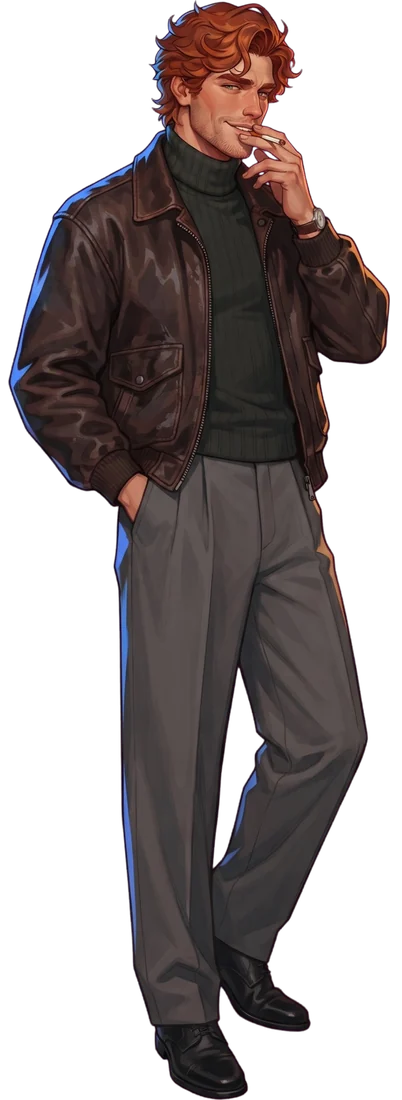
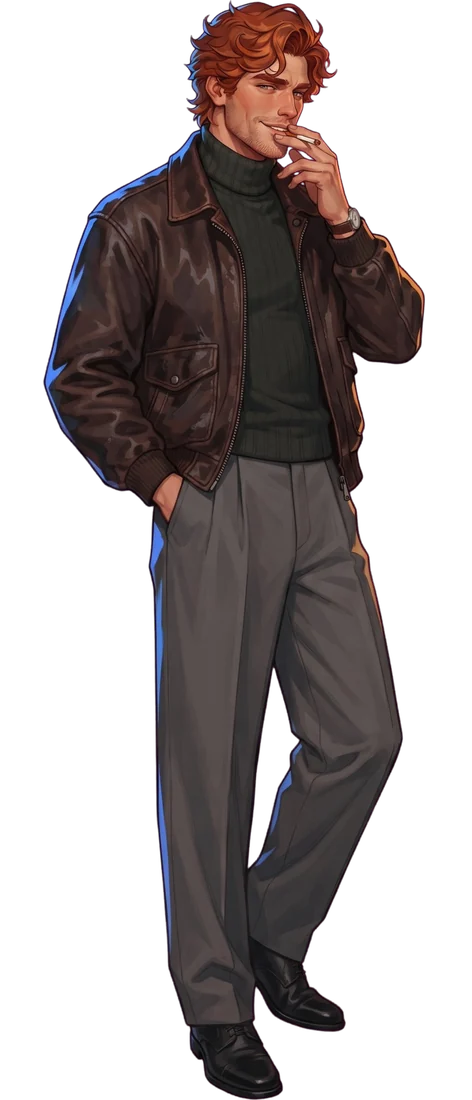
Главная: вторые позы Вити и Лёши

diff --git a/en.html b/en.html
@@ -431,8 +431,8 @@ const CONFIG = {
   },
   lamps:[{x:510, y:168, s:260, cls:'flicker'}, {x:975, y:238, s:300, cls:'soft'}, {x:1012, y:420, s:150, cls:'soft'}, {x:1288, y:420, s:150, cls:'soft'}],
   people:[
-    {id:'lesha', side:'L', x:268, g:832, h:612, idle:'assets/main/lesha.webp', hover:null, d:'4.9s', sd:'12s', dl:'-1.3s', lean:'.9deg', bxu:-.02, bo:'56%'},
-    {id:'vitya', side:'L', x:738, g:836, h:626, idle:'assets/main/vitya.webp', hover:null, flip:true, d:'5.4s', sd:'14s', dl:'-3s', lean:'-1.2deg', bxu:.02, bo:'42%'},
+    {id:'lesha', side:'L', x:268, g:832, h:612, idle:'assets/main/lesha.webp', hover:'assets/main/lesha-hover.webp', d:'4.9s', sd:'12s', dl:'-1.3s', lean:'.9deg', bxu:-.02, bo:'56%'},
+    {id:'vitya', side:'L', x:738, g:836, h:626, idle:'assets/main/vitya.webp', hover:'assets/main/vitya-hover.webp', flip:true, d:'5.4s', sd:'14s', dl:'-3s', lean:'-1.2deg', bxu:.02, bo:'42%'},
     {id:'oleg', side:'R', x:1408, g:836, h:668, idle:'assets/main/oleg.webp', hover:'assets/main/oleg-hover.webp', d:'5.1s', sd:'13s', dl:'-2.2s', lean:'-1deg', bxu:-.03, bo:'58%'}
   ],
   snaps:{L:505, R:1240}

diff --git a/index.html b/index.html
@@ -431,8 +431,8 @@ const CONFIG = {
   },
   lamps:[{x:510, y:168, s:260, cls:'flicker'}, {x:975, y:238, s:300, cls:'soft'}, {x:1012, y:420, s:150, cls:'soft'}, {x:1288, y:420, s:150, cls:'soft'}],
   people:[
-    {id:'lesha', side:'L', x:268, g:832, h:612, idle:'assets/main/lesha.webp', hover:null, d:'4.9s', sd:'12s', dl:'-1.3s', lean:'.9deg', bxu:-.02, bo:'56%'},
-    {id:'vitya', side:'L', x:738, g:836, h:626, idle:'assets/main/vitya.webp', hover:null, flip:true, d:'5.4s', sd:'14s', dl:'-3s', lean:'-1.2deg', bxu:.02, bo:'42%'},
+    {id:'lesha', side:'L', x:268, g:832, h:612, idle:'assets/main/lesha.webp', hover:'assets/main/lesha-hover.webp', d:'4.9s', sd:'12s', dl:'-1.3s', lean:'.9deg', bxu:-.02, bo:'56%'},
+    {id:'vitya', side:'L', x:738, g:836, h:626, idle:'assets/main/vitya.webp', hover:'assets/main/vitya-hover.webp', flip:true, d:'5.4s', sd:'14s', dl:'-3s', lean:'-1.2deg', bxu:.02, bo:'42%'},
     {id:'oleg', side:'R', x:1408, g:836, h:668, idle:'assets/main/oleg.webp', hover:'assets/main/oleg-hover.webp', d:'5.1s', sd:'13s', dl:'-2.2s', lean:'-1deg', bxu:-.03, bo:'58%'}
   ],
   snaps:{L:505, R:1240}
